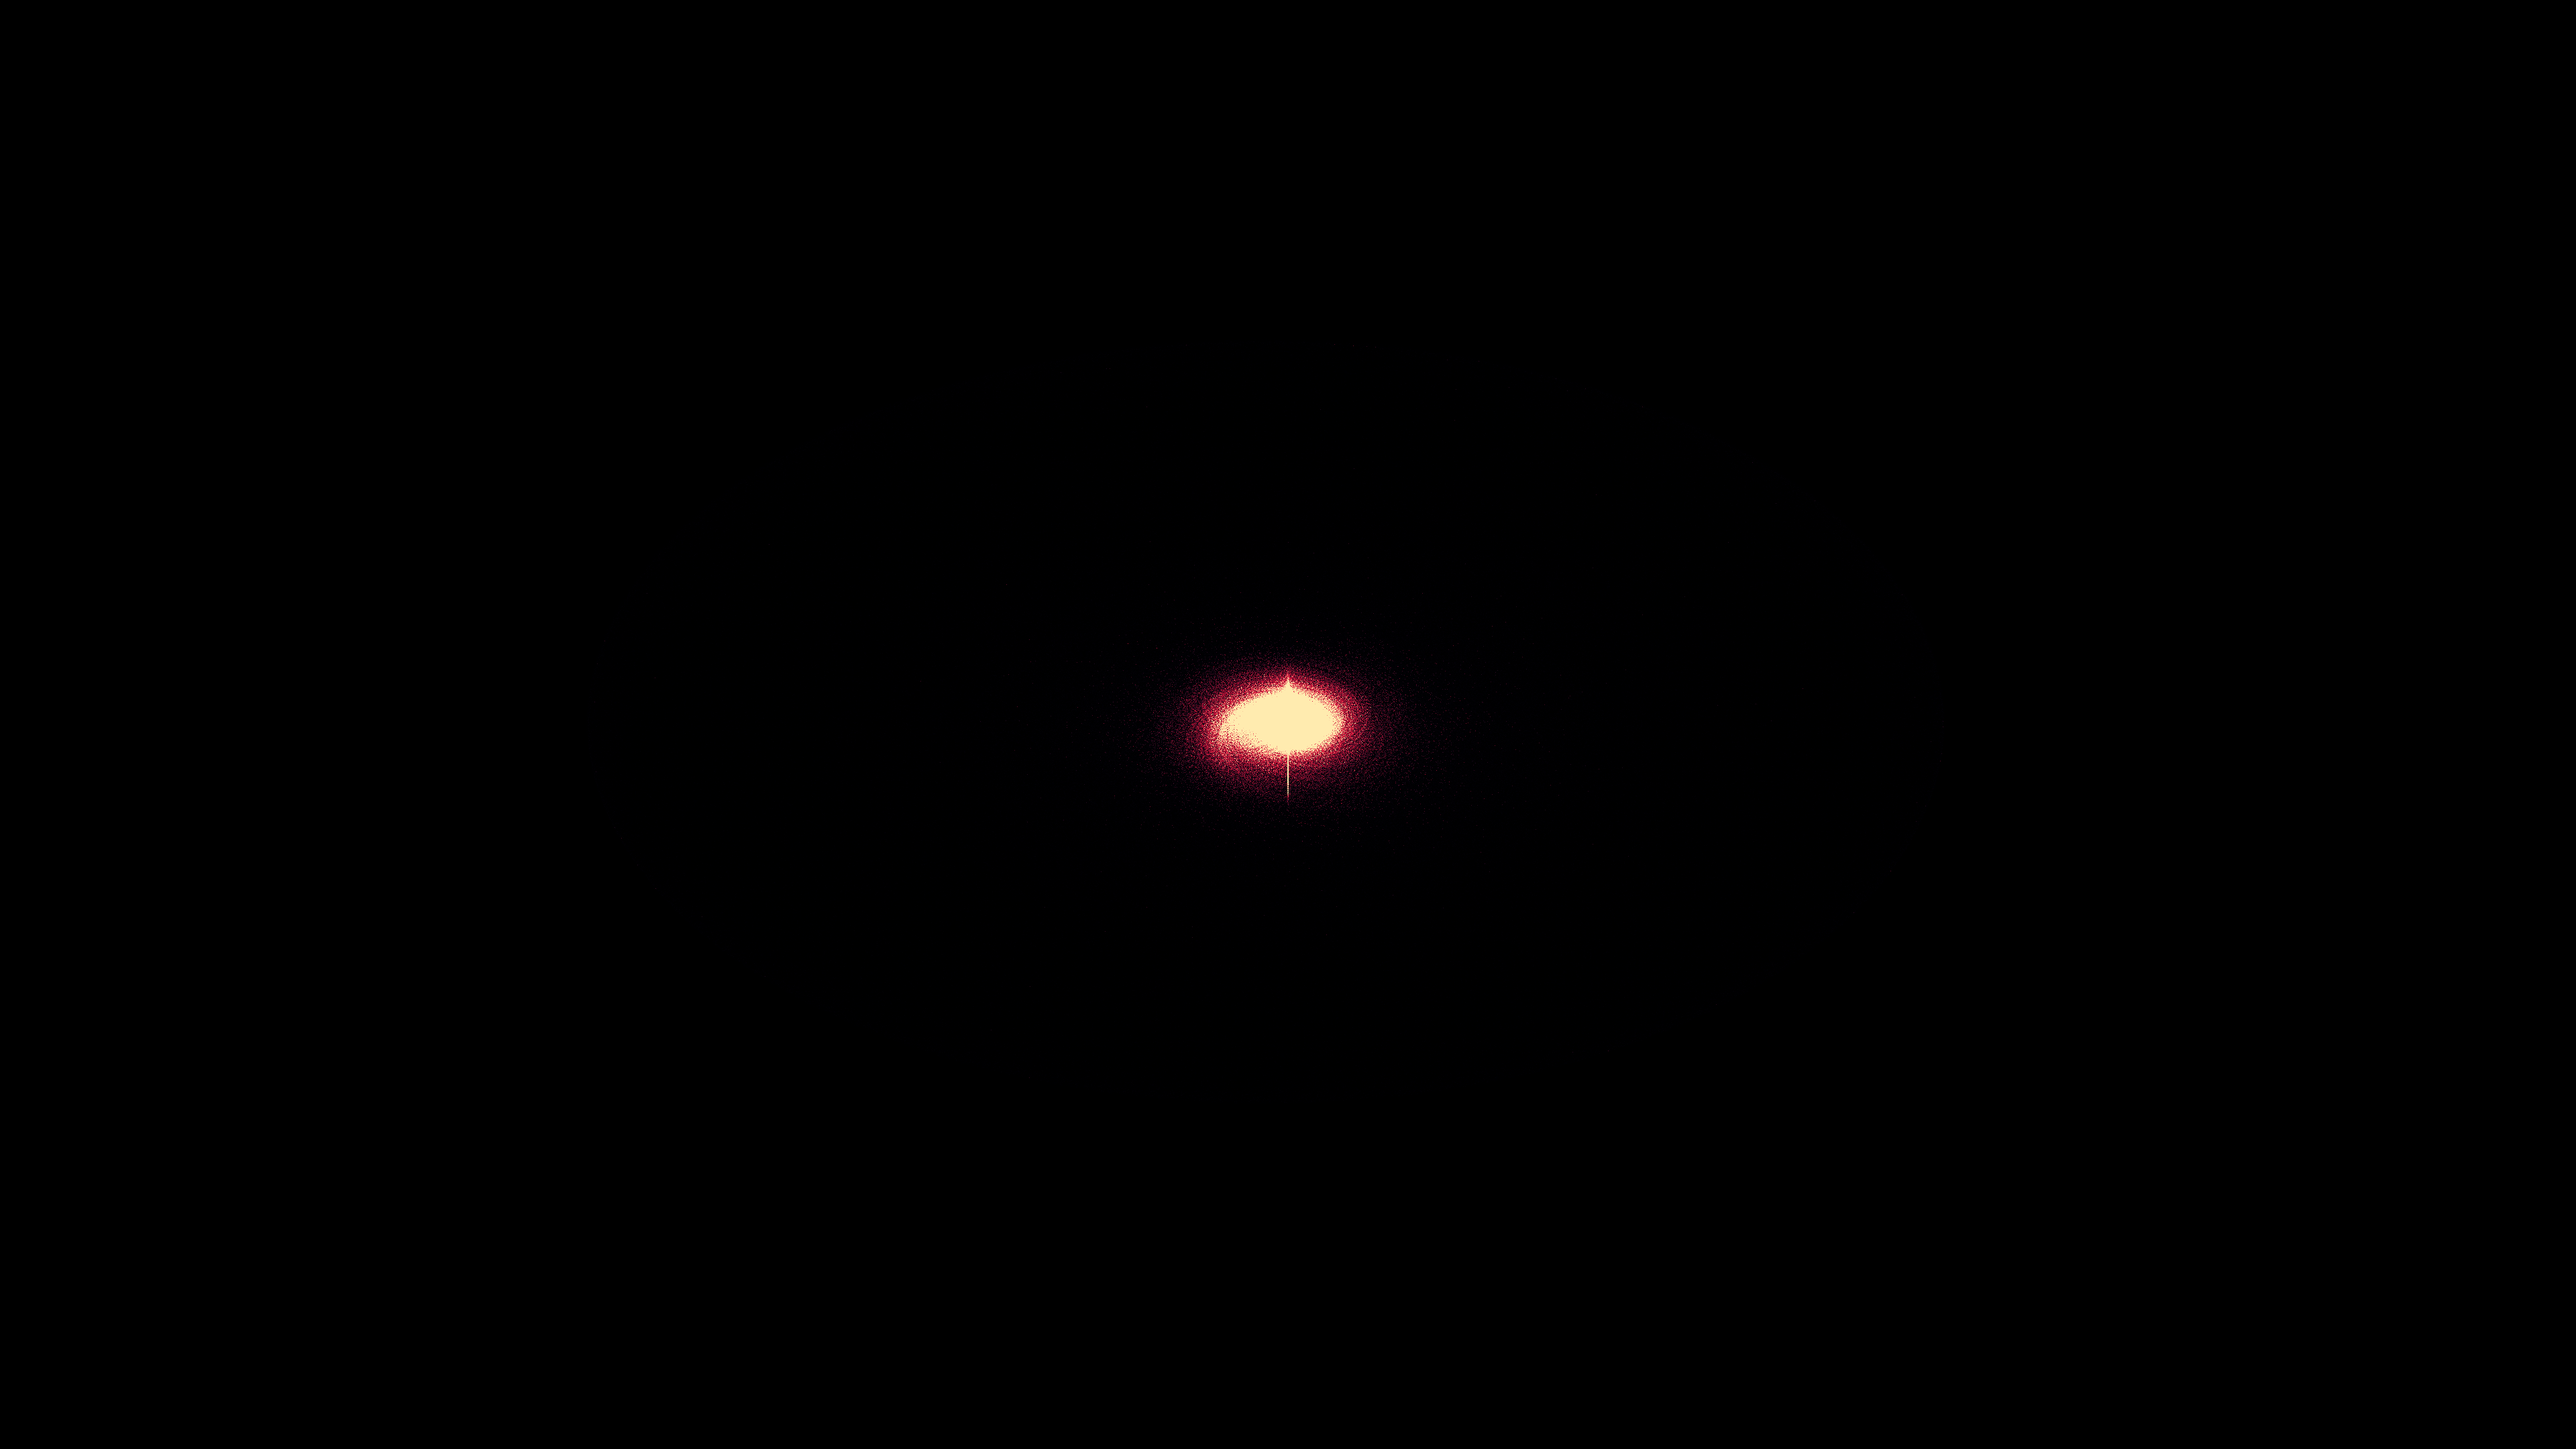
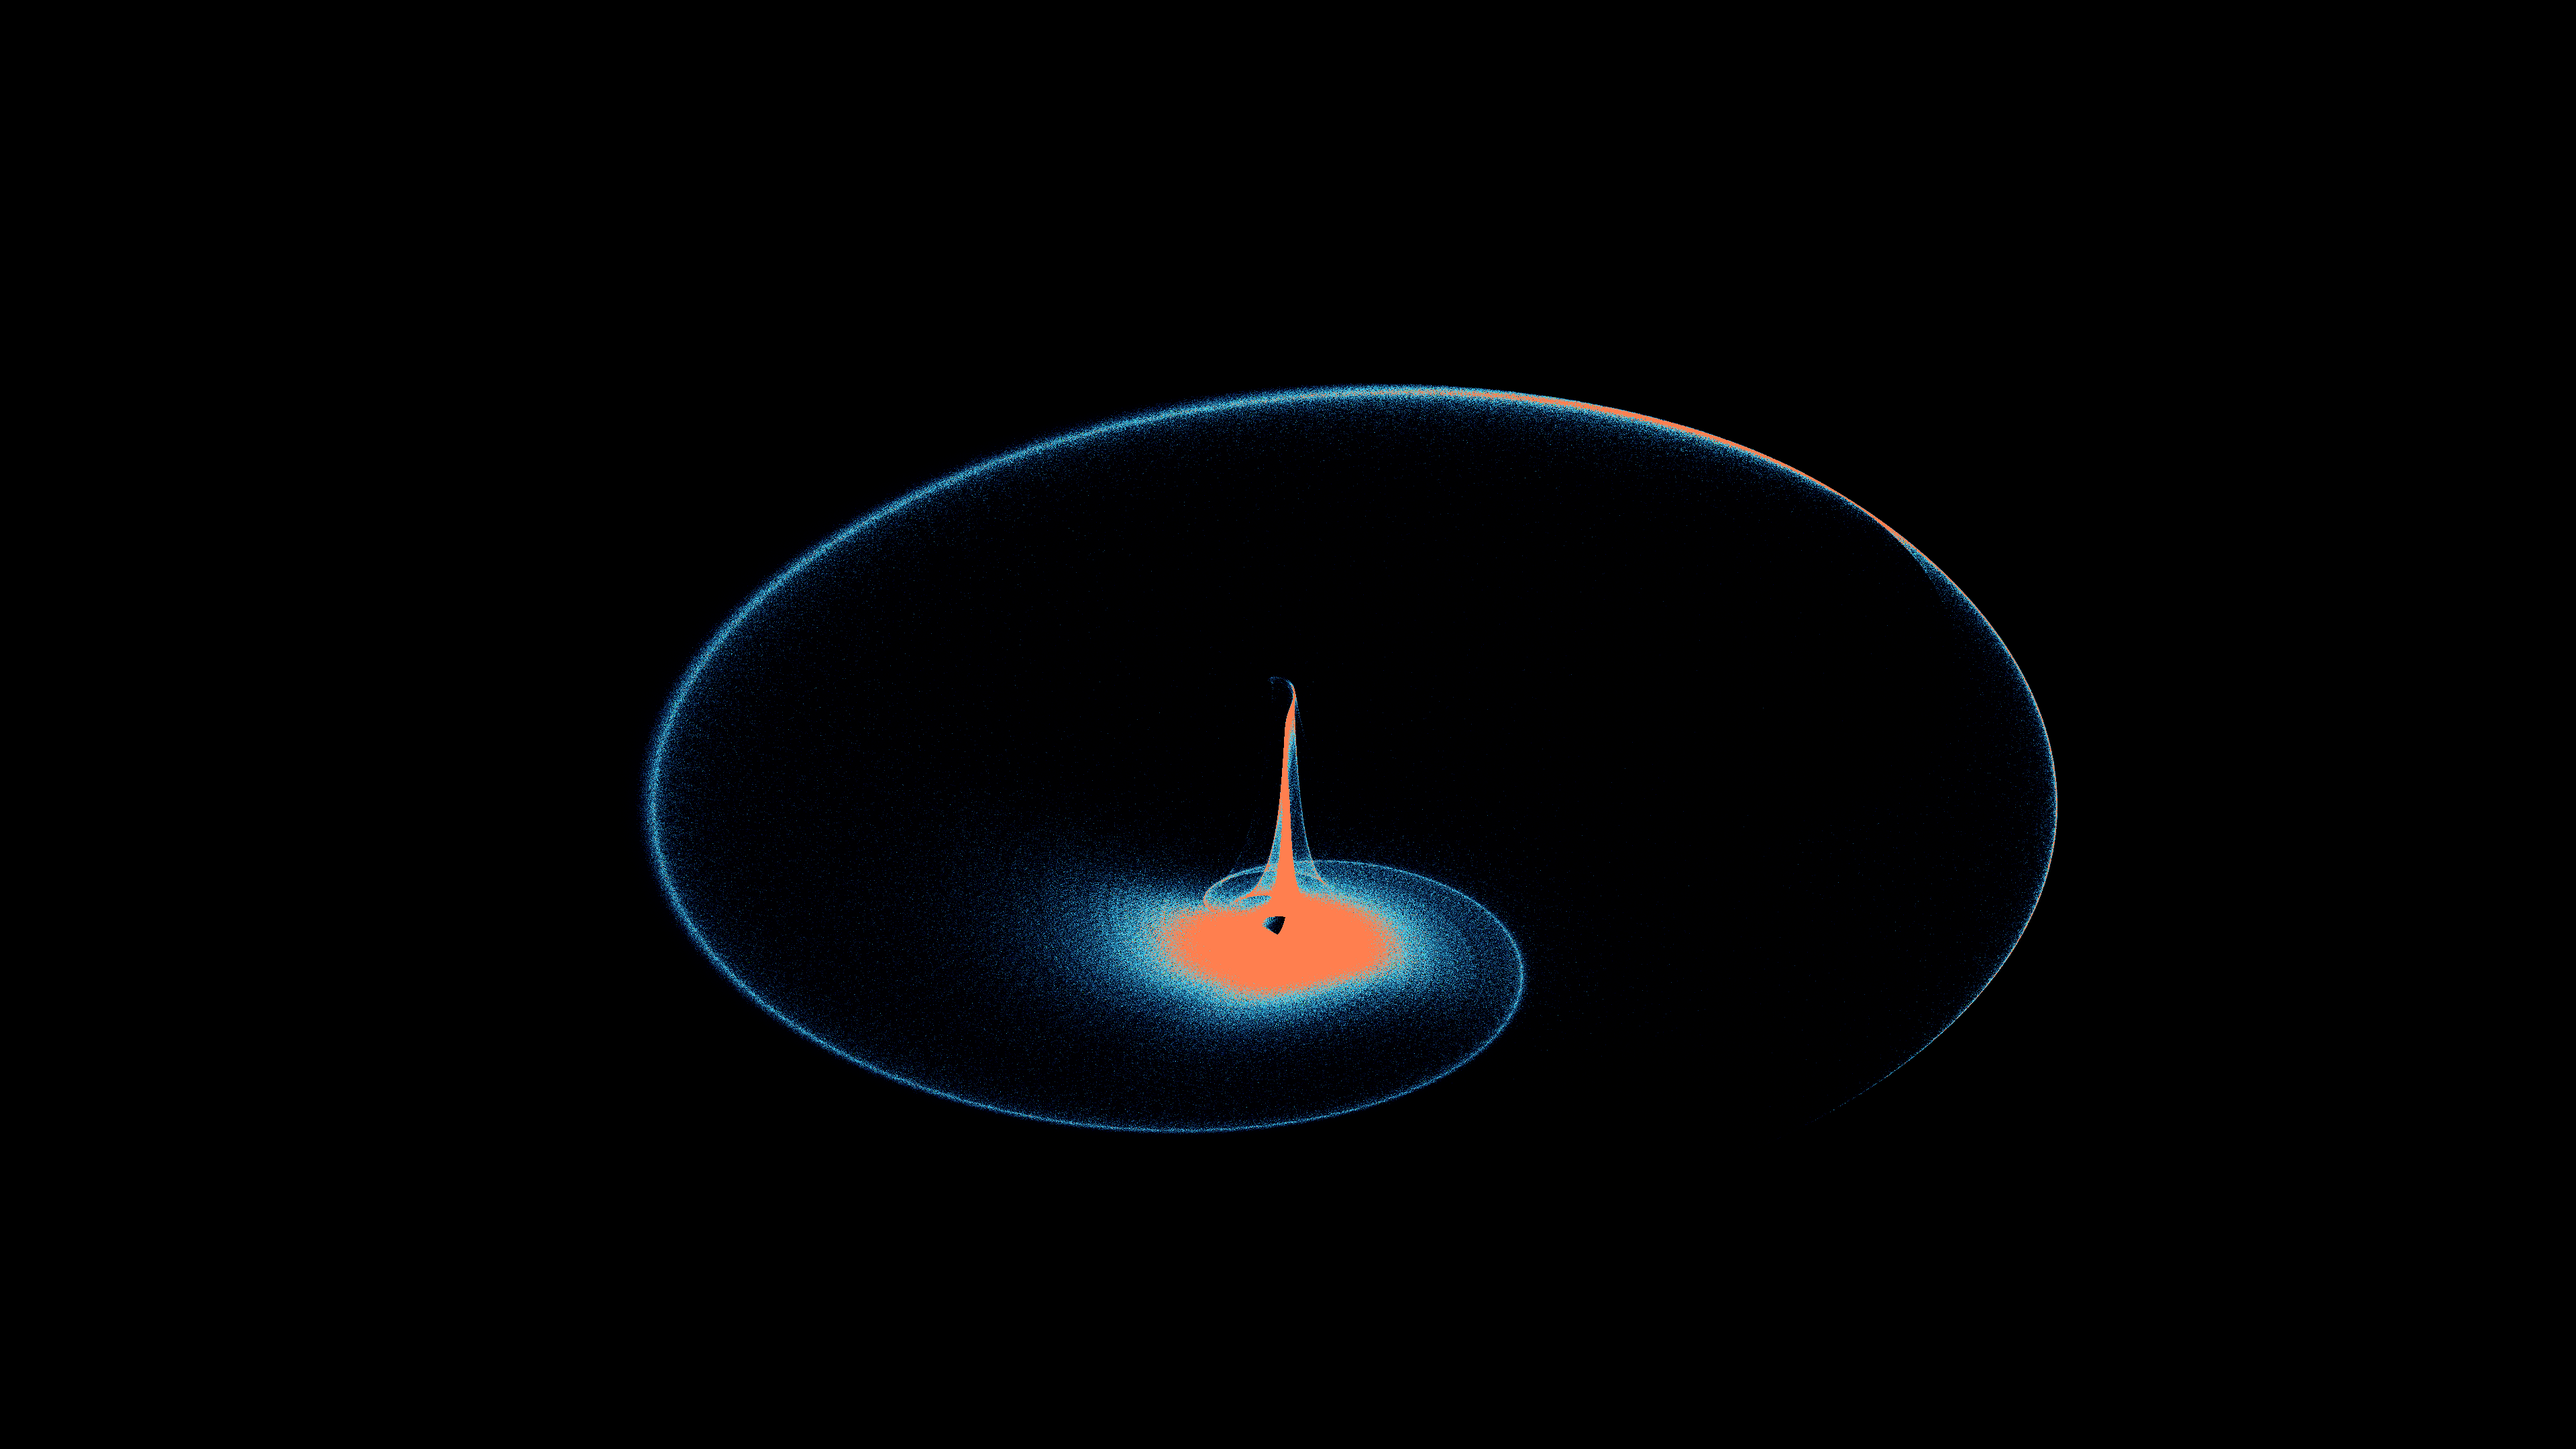
feat: add kinetic_aizawa_attractor_2d

diff --git a/sketch/kinetic_aizawa_attractor_2d/main.py b/sketch/kinetic_aizawa_attractor_2d/main.py
@@ -26,22 +26,38 @@ SIZE = OUTPUT_SIZE
 # Simulation state
 N = 1000000
 # Initial points spread around the origin
-x = np.random.uniform(-2, 2, N).astype(np.float32)
-y = np.random.uniform(-2, 2, N).astype(np.float32)
-z = np.random.uniform(-2, 2, N).astype(np.float32)
+x = np.random.uniform(-0.1, 0.1, N).astype(np.float32)
+y = np.random.uniform(-0.1, 0.1, N).astype(np.float32)
+z = np.random.uniform(-0.1, 0.1, N).astype(np.float32)
 
 density_buffer = np.zeros((SIZE[1], SIZE[0]), dtype=np.float32)
 
-def step_aizawa(a, b, c, d, e, f_val, dt=0.01):
+def step_aizawa(a, dt=0.01):
     global x, y, z
-    # Euler integration step for the Aizawa attractor
+    # Euler integration step for the Aizawa Attractor
+    b = 0.7
+    c = 0.6
+    d = 3.5
+    e = 0.25
+    f = 0.1
+    
     dx = (z - b) * x - d * y
     dy = d * x + (z - b) * y
-    dz = c + a * z - (z**3) / 3.0 - (x**2 + y**2) * (1.0 + e * z) + f_val * z * (x**3)
+    dz = c + a * z - (z**3) / 3.0 - (x**2 + y**2) * (1 + e * z) + f * z * (x**3)
     
-    x += dx * dt
-    y += dy * dt
-    z += dz * dt
+    x_new = x + dx * dt
+    y_new = y + dy * dt
+    z_new = z + dz * dt
+    
+    # Keep particles bounded just in case
+    mask = (np.abs(x_new) > 5) | (np.abs(y_new) > 5) | (np.abs(z_new) > 5) | np.isnan(x_new)
+    x_new[mask] = np.random.uniform(-0.1, 0.1, np.sum(mask)).astype(np.float32)
+    y_new[mask] = np.random.uniform(-0.1, 0.1, np.sum(mask)).astype(np.float32)
+    z_new[mask] = np.random.uniform(-0.1, 0.1, np.sum(mask)).astype(np.float32)
+    
+    x[:] = x_new
+    y[:] = y_new
+    z[:] = z_new
 
 def setup():
     py5.size(*SIZE)
@@ -53,21 +69,16 @@ def draw():
     
     t = py5.frame_count * 2 * np.pi / TOTAL_FRAMES
     
-    # Aizawa attractor parameters with continuous modulation
-    a = 0.95 + 0.1 * np.sin(t)
-    b = 0.7
-    c = 0.6
-    d = 3.5 + 0.5 * np.cos(t * 1.5)
-    e = 0.25
-    f_val = 0.1
+    # Aizawa parameter with continuous modulation
+    a = 0.95 + 0.05 * np.sin(t)
     
     # Run integration steps
-    for _ in range(2):
-        step_aizawa(a, b, c, d, e, f_val, dt=0.01)
+    for _ in range(5):
+        step_aizawa(a, dt=0.005)
         
     # Rotate 3D attractor gently over time
-    theta = t * 0.5
-    phi = np.sin(t) * 0.5
+    theta = t * 0.4
+    phi = np.sin(t * 1.5) * 0.4
     
     # Rotate around Z
     x_rot1 = x * np.cos(theta) - y * np.sin(theta)
@@ -80,9 +91,9 @@ def draw():
     z_rot2 = y_rot1 * np.sin(phi) + z_rot1 * np.cos(phi)
     
     # Map to screen
-    # Aizawa attractor typical size is roughly [-2.5, 2.5]
-    screen_x = (x_rot2 + 3.0) / 6.0 * SIZE[0]
-    screen_y = (y_rot2 + 3.0) / 6.0 * SIZE[1]
+    # Aizawa typical size: x,y,z in [-2.5, 2.5]
+    screen_x = (x_rot2 + 2.5) / 5.0 * SIZE[0]
+    screen_y = (y_rot2 + 2.5) / 5.0 * SIZE[1]
     
     # Fast 2D histogram
     H, _, _ = np.histogram2d(screen_y, screen_x, bins=(SIZE[1], SIZE[0]), range=[[0, SIZE[1]], [0, SIZE[0]]])
@@ -94,25 +105,25 @@ def draw():
     py5.load_np_pixels()
     
     # Map density to colors
-    # Palette: Ruby Red, Champagne Gold, and Deep Obsidian
-    density_norm = np.clip(density_buffer / 10.0, 0, 1)
+    # Palette: Coral, Turquoise, and Navy Blue
+    density_norm = np.clip(density_buffer / 12.0, 0, 1)
     
-    # Deep Obsidian base
-    r_col = 30 * (density_norm ** 1.5)
-    g_col = 10 * (density_norm ** 1.2)
-    b_col = 30 * (density_norm ** 1.0)
+    # Navy Blue base
+    r_col = 0 * (density_norm ** 1.5)
+    g_col = 0 * (density_norm ** 1.5)
+    b_col = 50 * (density_norm ** 1.5)
     
-    # Ruby Red midtones
-    ruby_mask = (density_norm > 0.3) & (density_norm < 0.7)
-    r_col[ruby_mask] = np.maximum(r_col[ruby_mask], 30 + 195 * ((density_norm[ruby_mask] - 0.3) / 0.4))
-    g_col[ruby_mask] = np.maximum(g_col[ruby_mask], 10 + 10 * ((density_norm[ruby_mask] - 0.3) / 0.4))
-    b_col[ruby_mask] = np.maximum(b_col[ruby_mask], 30 + 30 * ((density_norm[ruby_mask] - 0.3) / 0.4))
+    # Turquoise midtones
+    turq_mask = (density_norm > 0.3) & (density_norm < 0.7)
+    r_col[turq_mask] = np.maximum(r_col[turq_mask], 0 + 64 * ((density_norm[turq_mask] - 0.3) / 0.4))
+    g_col[turq_mask] = np.maximum(g_col[turq_mask], 0 + 224 * ((density_norm[turq_mask] - 0.3) / 0.4))
+    b_col[turq_mask] = np.maximum(b_col[turq_mask], 50 + 208 * ((density_norm[turq_mask] - 0.3) / 0.4))
     
-    # Champagne Gold highlights
-    gold_mask = density_norm > 0.7
-    r_col[gold_mask] = np.maximum(r_col[gold_mask], 225 + 30 * ((density_norm[gold_mask] - 0.7) / 0.3))
-    g_col[gold_mask] = np.maximum(g_col[gold_mask], 20 + 215 * ((density_norm[gold_mask] - 0.7) / 0.3))
-    b_col[gold_mask] = np.maximum(b_col[gold_mask], 60 + 115 * ((density_norm[gold_mask] - 0.7) / 0.3))
+    # Coral highlights
+    coral_mask = density_norm > 0.7
+    r_col[coral_mask] = np.maximum(r_col[coral_mask], 64 + 191 * ((density_norm[coral_mask] - 0.7) / 0.3))
+    g_col[coral_mask] = np.maximum(g_col[coral_mask], 224 - 96 * ((density_norm[coral_mask] - 0.7) / 0.3))
+    b_col[coral_mask] = np.maximum(b_col[coral_mask], 255 - 175 * ((density_norm[coral_mask] - 0.7) / 0.3))
     
     py5.np_pixels[:, :, 0] = 255
     py5.np_pixels[:, :, 1] = r_col.astype(np.uint8)

diff --git a/sketch/WORKS.md b/sketch/WORKS.md
@@ -1,3 +1,10 @@
+## kinetic_aizawa_attractor_2d
+- **Date**: 2026-07-25
+- **Type**: Animation (900 frames, 60fps)
+- **Concept**: A continuous 3D chaotic flow with a stunning spherical vortex topology.
+- **Techniques**: The Aizawa Attractor. We numerically integrate the continuous differential equations using the Euler method for 1M particles. The tubular vortex structure is rotated and orthographically projected onto the 2D plane, gently modulating the parameter `a` over time.
+- **Palette**: Coral, Turquoise, and Navy Blue.
+
 ## kinetic_dadras_attractor_2d
 - **Date**: 2026-07-25
 - **Type**: Animation (900 frames, 60fps)

diff --git a/.agents/FEEDBACK.md b/.agents/FEEDBACK.md
@@ -4,6 +4,12 @@
 Agents MUST NOT write anything in the `Comment` field. When registering a new work, Agents must leave the `Rating` and `Comment` fields empty or with their default labels as placeholders for the user.
 The Artist reads this file before starting a new sketch to understand preferences.
 
+## kinetic_aizawa_attractor_2d
+
+- **Rating**: 
+- **Comment**: 
+
+
 ## kinetic_dadras_attractor_2d
 
 - **Rating**: 
